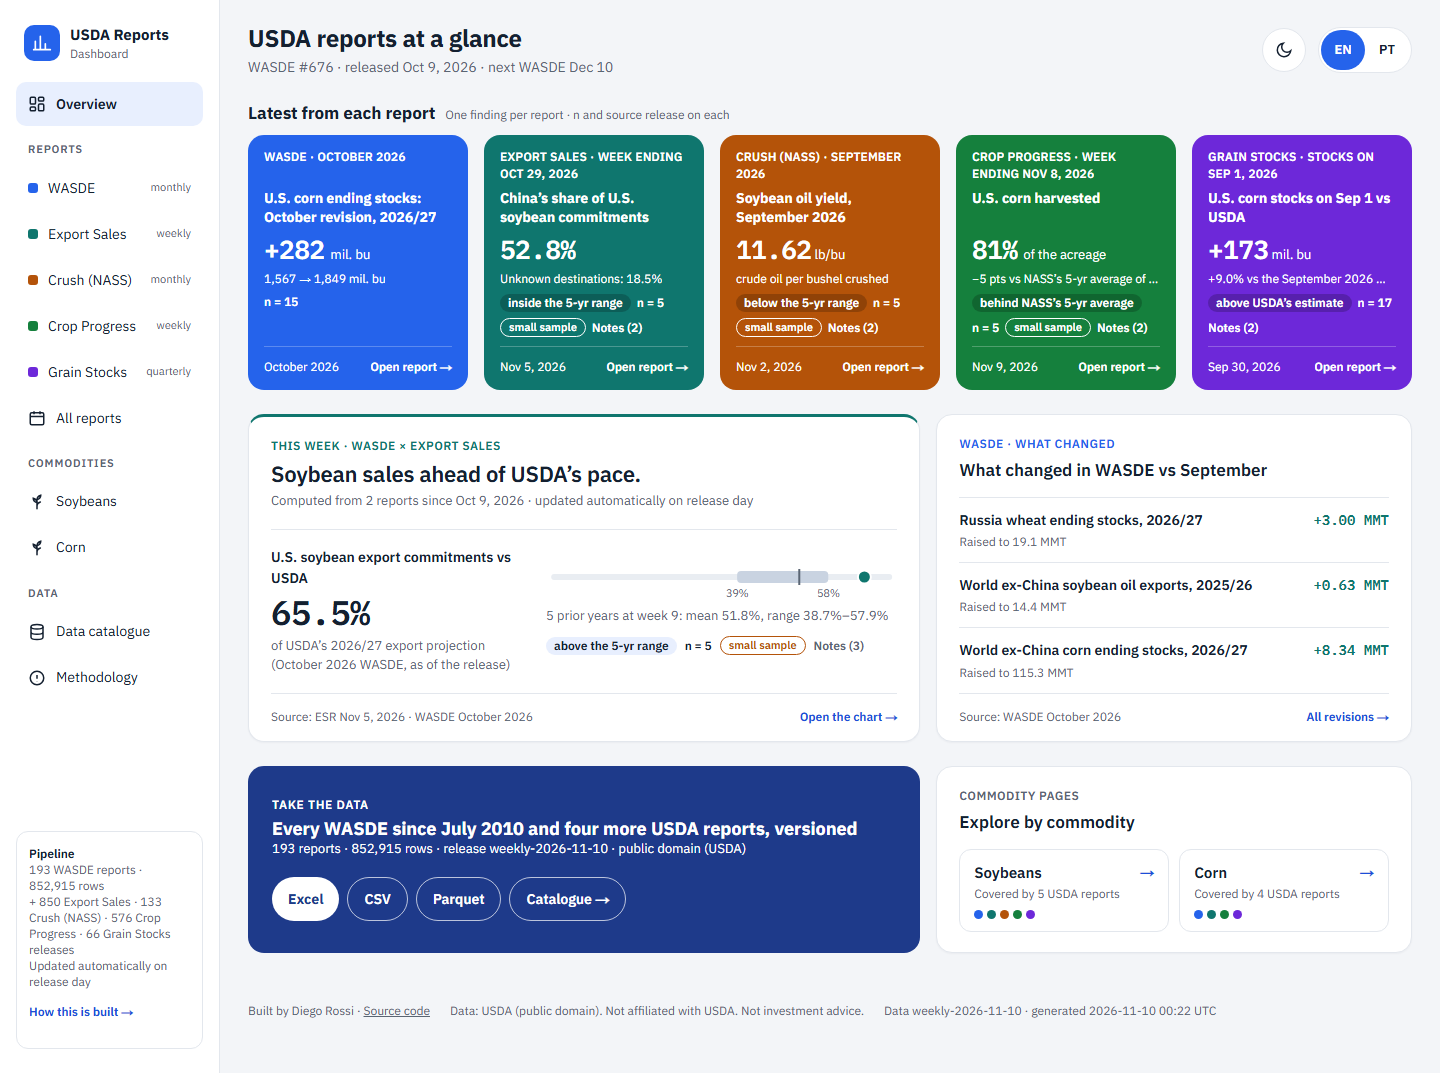
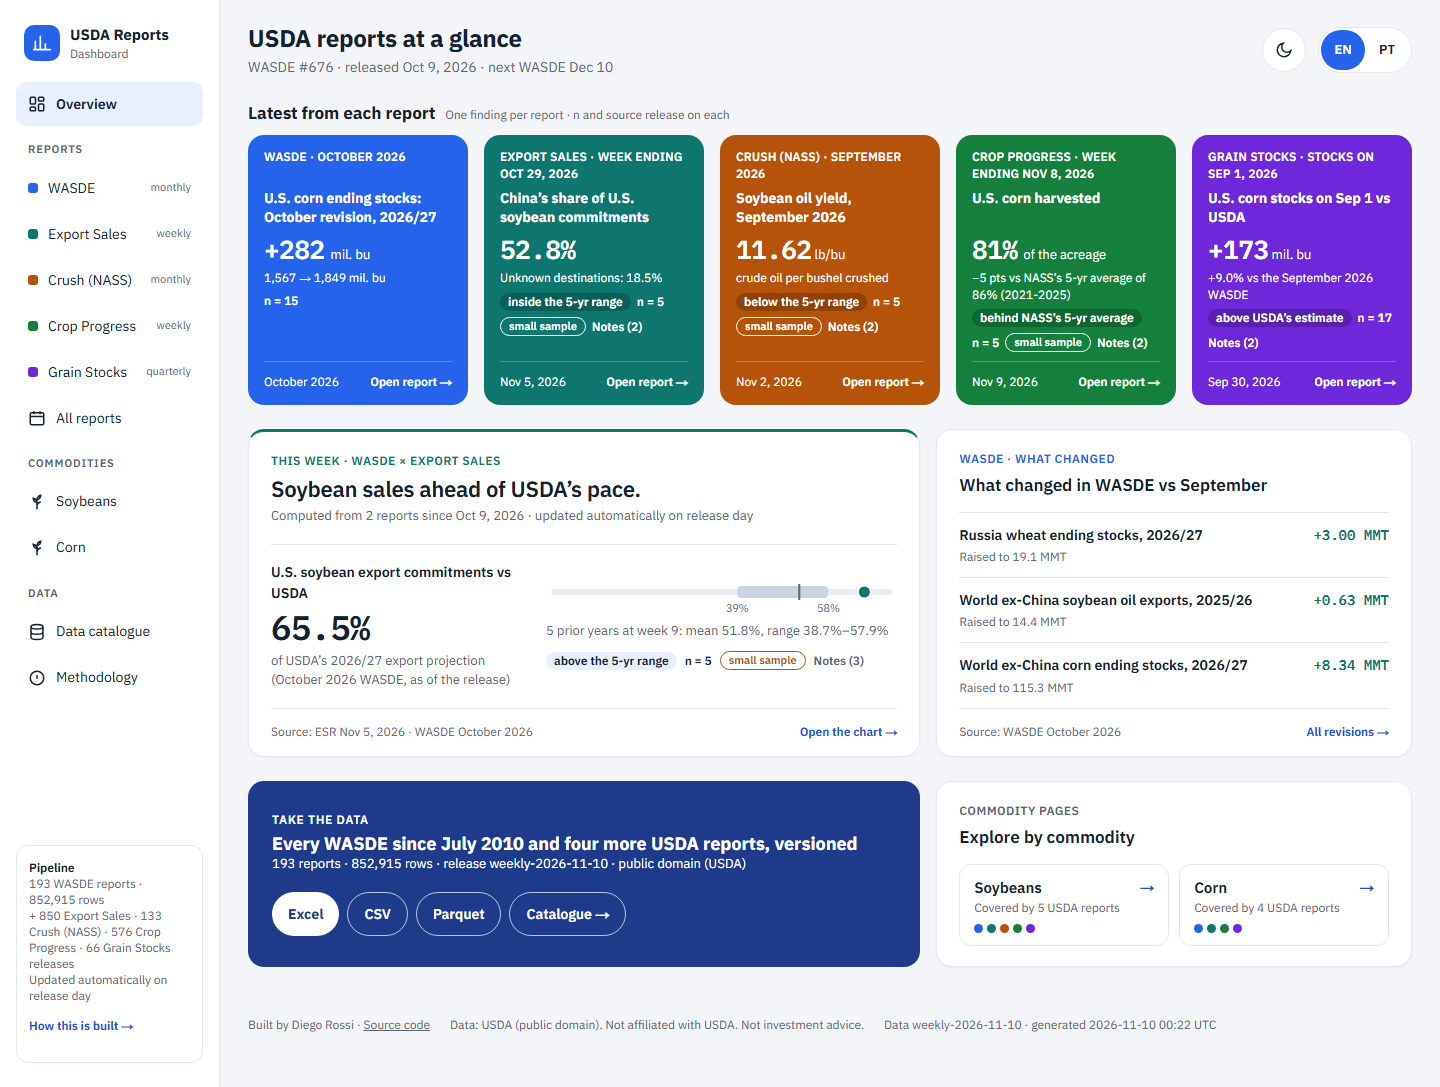
Overview tiles: wrap context and verdict chips instead of cutting them
- Tile context line clamps at 2 lines (was 1-line ellipsis); the subgrid row absorbs the height.
- The verdict chip (card-chip) wraps and is never truncated (honesty rule; touch users cannot
  reach the title tooltip). PT pace chips shortened to "atrás/à frente/na média de 5 anos"
  (the context line still names NASS).
- e2e: new "verdict chip is never cut" check (EN/PT, 1440-360); tile height budget 280/300.
- README and home screenshots refreshed.

diff --git a/web/components/home/ReportTile.tsx b/web/components/home/ReportTile.tsx
@@ -11,11 +11,11 @@ import { REPORT_TILE } from "@/lib/reports";
 /** A solid report tile on the home page: one finding, its n, small-sample chip, position chip and
  *  release date, and a route to the report page. Charts and the Data link stay on the report pages.
  *
- *  Five slots, in this order: eyebrow · title · value · meta (one context line, then chip · n ·
+ *  Five slots, in this order: eyebrow · title · value · meta (one context line (up to 2 lines), then chip · n ·
  *  small sample · Notes) · footer (release date | Open report). From 560px the tile is a subgrid
  *  of its parent (.report-tiles in globals.css), so the values and footers of a row of tiles share
- *  one line; below 560px it is a compact card (title left, value right). Eyebrow and title are
- *  line-clamped, with the full text in `title`. The full source text ("ESR Nov 5, 2026 · WASDE
+ *  one line; below 560px it is a compact card (title left, value right). Eyebrow, title and context are
+ *  line-clamped; the verdict chip wraps and is never cut, with the full text in `title`. The full source text ("ESR Nov 5, 2026 · WASDE
  *  October 2026") is read out by screen readers next to the release date. */
 export default function ReportTile({
   v,
@@ -72,7 +72,7 @@ export default function ReportTile({
         )}
         <div className="flex flex-wrap items-center gap-x-1.5 gap-y-1 text-xs">
           {v.chip && (
-            <span className="inline-block max-w-full truncate rounded-full bg-black/20 px-2 py-[1px] font-semibold" title={v.chip} data-testid="card-chip">
+            <span className="rt-chip inline-block rounded-xl bg-black/20 px-2 py-[1px] font-semibold" title={v.chip} data-testid="card-chip">
               {v.chip}
             </span>
           )}

diff --git a/web/e2e/home-layout.spec.ts b/web/e2e/home-layout.spec.ts
@@ -211,6 +211,18 @@ test.describe("home layout", () => {
     expect(Math.abs(pt.rowB[0].height - en.rowB[0].height)).toBeLessThanOrEqual(30);
   });
 
+  test("the verdict chip is never cut, in EN or PT, at any width", async ({ page }) => {
+    for (const lang of ["en", "pt"] as const) {
+      for (const [w, h] of [[1440, 900], [1280, 800], [1024, 768], [768, 1024], [360, 780]] as const) {
+        await open(page, w, h, { lang });
+        const cut = await page.locator('.report-tile [data-testid="card-chip"]').evaluateAll((els) =>
+          els.filter((e) => e.scrollWidth > e.clientWidth + 1 || e.scrollHeight > e.clientHeight + 1).map((e) => e.textContent),
+        );
+        expect(cut, `${lang} ${w}px`).toEqual([]);
+      }
+    }
+  });
+
   // 9 + 11. Honesty and scope: one finding per report with n, chip and dates; nothing removed returns.
   test("one tile per report, one lead, one revisions, one data and one explore card; n, chips and dates on each", async ({ page }) => {
     await open(page, 1440, 900);

diff --git a/web/e2e/smoke.spec.ts b/web/e2e/smoke.spec.ts
@@ -67,8 +67,9 @@ for (const lang of ["en", "pt"] as const) {
     if (boxes.length) {
       const hs = boxes.map((b) => b.height);
       expect(Math.max(...hs) - Math.min(...hs)).toBeLessThanOrEqual(1);
-      // EN about 255px; pt-BR copy may add one line to the meta slot (the subgrid keeps rows aligned).
-      expect(Math.max(...hs)).toBeLessThanOrEqual(lang === "pt" ? 285 : 260);
+      // EN about 255px plus one wrapped context line (the context and the verdict chip wrap
+      // instead of being cut); pt-BR copy may add one more line (the subgrid keeps rows aligned).
+      expect(Math.max(...hs)).toBeLessThanOrEqual(lang === "pt" ? 300 : 280);
       // The tiles sit above the fold at 1440x900.
       expect(Math.max(...boxes.map((b) => b.bottom))).toBeLessThanOrEqual(900);
     }

diff --git a/web/app/globals.css b/web/app/globals.css
@@ -280,9 +280,20 @@ details > summary {
 .report-tile .rt-ctx {
   margin: 0;
   font-size: 12px;
-  white-space: nowrap;
+  line-height: 1.35;
+  /* Two lines, not one: the context carries the comparison (e.g. "vs NASS's 5-yr average"),
+     and touch users cannot reach the title tooltip. The subgrid row absorbs the height. */
+  display: -webkit-box;
+  -webkit-box-orient: vertical;
+  -webkit-line-clamp: 2;
   overflow: hidden;
-  text-overflow: ellipsis;
+  overflow-wrap: anywhere;
+}
+/* The verdict chip is never cut: it wraps instead (honesty rule). */
+.report-tile .rt-chip {
+  max-width: 100%;
+  white-space: normal;
+  overflow-wrap: anywhere;
 }
 .report-tile .rt-ft {
   grid-area: ft;

diff --git a/web/lib/i18n.ts b/web/lib/i18n.ts
@@ -1245,9 +1245,9 @@ export const pt: Record<Key, string> = {
   "stage.setting_pods": "formando vagens",
   "stage.dropping_leaves": "em queda de folhas",
   "stage.headed": "espigado",
-  "pos.behind": "atrás da média de 5 anos do NASS",
-  "pos.ahead": "à frente da média de 5 anos do NASS",
-  "pos.on_pace": "na média de 5 anos do NASS",
+  "pos.behind": "atrás da média de 5 anos",
+  "pos.ahead": "à frente da média de 5 anos",
+  "pos.on_pace": "na média de 5 anos",
   "dir.above": "acima da estimativa do USDA",
   "dir.below": "abaixo da estimativa do USDA",
   "dir.equal": "igual à estimativa do USDA",

diff --git a/README.md b/README.md
@@ -24,7 +24,8 @@ whether stocks surprised USDA. In English and Brazilian Portuguese.**
 
 1. **[Home](https://usda-reports.vercel.app/)** — a one-screen front door, top-anchored: one
    solid tile per report right under the title (a number, **n**, a *small sample* chip where it
-   applies and the source release; values and footers on one line across the row), then two
+   applies and the source release; values and footers on one line across the row; context and
+   verdict chips wrap instead of being cut), then two
    card rows on one 7 | 5 grid: the lead story (this week's sentence with its evidence — the only
    chart on the page, with **n** and the 5-year range) beside the top 3 WASDE revisions, and the
    downloads beside the commodity pages. Crop Progress is green, Grain Stocks violet; off-season
@@ -424,7 +425,7 @@ data/manifest.json   audit trail of every ingested release (schema v2; data live
   contract test for the lead card, its evidence and the home tiles, a home layout budget (one
   chart, about one screen at 1440px), a home layout contract (`home-layout.spec.ts`: tiles under
   the title, aligned values/footers and 7 | 5 rows, no half-empty card, 3 + 2 tiles at 1024/768px,
-  app bar and drawer at 360px, light/dark, EN/PT), the Export Sales header, the crush, Crop Progress
+  app bar and drawer at 360px, verdict chips never cut, light/dark, EN/PT), the Export Sales header, the crush, Crop Progress
   and Grain Stocks pages and the commodity pages, in EN and PT (plus the exact NOPA note and the
   verbatim G2 caveats); the Crop Progress off-season state is tested on a frozen-clock fixture.
   Re-run against the live site after every deploy. Until the first data release that carries
